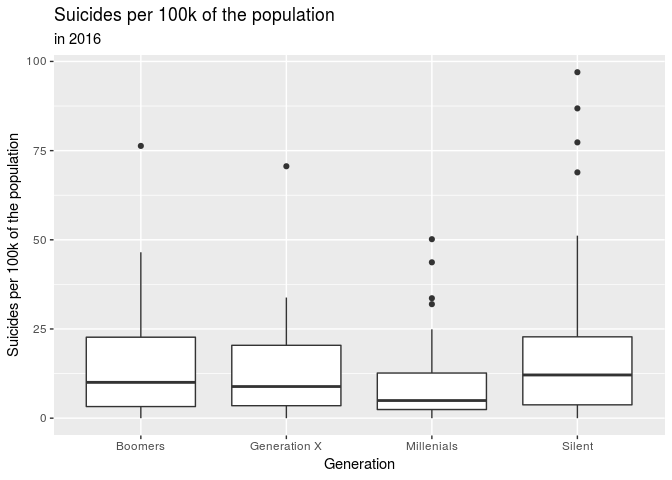
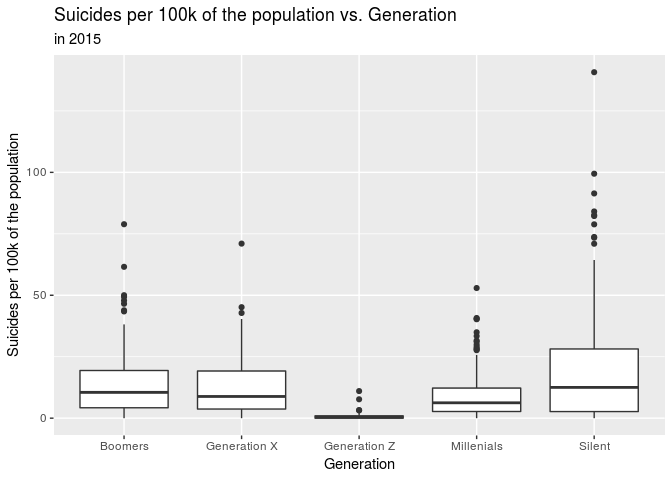
Added current graphs for each to reduce noise

diff --git a/project/project.md b/project/project.md
@@ -16,7 +16,7 @@ end. The rest is up to you\!
 
 ### Suicides and Location
 
-### Suicides and Economic Situation
+### Suicides and Economic Situation over all Time
 
 ![](project_files/figure-gfm/vis-suicide-gdp-per-capita-1.png)<!-- -->
 
@@ -33,7 +33,28 @@ population-hat) = (1.533301e+02) + (1.830459e-05\*GDP per capita($))
 R-squared value is:
 8.740802e-06
 
-### Suicides and Generation/Age
+### Suicides and Economic Situation in 2015
+
+![](project_files/figure-gfm/vis-suicide-gdp-per-capita-2015-1.png)<!-- -->
+
+    ## # A tibble: 2 x 5
+    ##   term                   estimate std.error statistic   p.value
+    ##   <chr>                     <dbl>     <dbl>     <dbl>     <dbl>
+    ## 1 (Intercept)          127.        4.60         27.7  1.40e-116
+    ## 2 `gdp_per_capita ($)`   0.000217  0.000129      1.68 9.40e-  2
+
+    ## [1] 0.003774998
+
+Equation for the linear model is: (Suicides per 100k of the
+population-hat) = (1.274415e+02) + (2.168189e-04\*GDP per capita($))
+R-squared value is:
+0.003774998
+
+### Suicides and Generation
+
+![](project_files/figure-gfm/vis-generation-suicides-1.png)<!-- -->
+
+### Suicides and Generation in 2015
 
 ![](project_files/figure-gfm/vis-generation-suicides-current-1.png)<!-- -->
 
